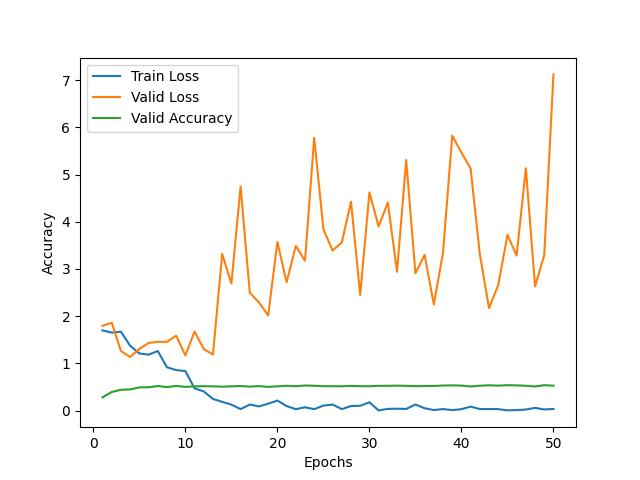
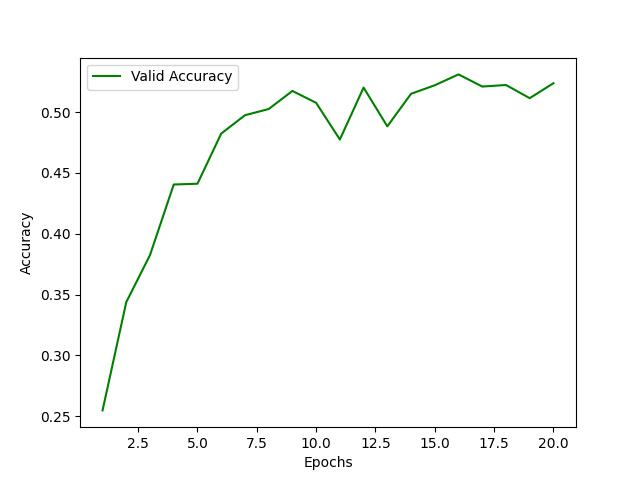
2307142227 commit

diff --git a/Treatment.py b/Treatment.py
@@ -9,6 +9,9 @@ import os
 from models.ModelDefinition import *
 
 def getSliceAndDraw(url='./videos/sample.mp4'):
+    global arugment
+    
+    arugment=False
     # 拉取视频
     video=cv2.VideoCapture(url)
     
@@ -16,12 +19,19 @@ def getSliceAndDraw(url='./videos/sample.mp4'):
     face_path='./xmls/haarcascade_frontalface_default.xml'
     face_cas=cv2.CascadeClassifier(face_path)
     face_cas.load(face_path)
-        
-    # 设置去背景函数
-    fgbg=cv2.createBackgroundSubtractorMOG2()
     
-    # 形态学kernel
-    kernel = cv2.getStructuringElement(cv2.MORPH_RECT, (7, 7))
+    # 导入先前训练的模型
+    model=ResNet(BasicBlock, [2, 2, 2, 2])
+    model.load_state_dict(torch.load('./models/cnn_model.pth'))
+    model.eval()  # 将模型设置为评估模式
+    
+    emoji0=cv2.imread('./emoji/0-Angry.png')
+    emoji1=cv2.imread('./emoji/1-Disgust.png')
+    emoji2=cv2.imread('./emoji/2-Fear.png')
+    emoji3=cv2.imread('./emoji/3-Happy.png')
+    emoji4=cv2.imread('./emoji/4-Sad.png')
+    emoji5=cv2.imread('./emoji/5-Surprise.png')
+    emoji6=cv2.imread('./emoji/6-Neutral.png')
     
     while True:
         # 读取视频帧
@@ -44,7 +54,7 @@ def getSliceAndDraw(url='./videos/sample.mp4'):
         '''
         # 进行人脸和眼睛检测
         faceRects = face_cas.detectMultiScale(
-            cvt_img, scaleFactor=1.2, minNeighbors=4, minSize=(100, 100))
+            cvt_img, scaleFactor=1.2, minNeighbors=4, minSize=(15, 15))
         
         if len(faceRects) == 0:  # 如果获取失败
             # 只显示原始图像
@@ -61,55 +71,51 @@ def getSliceAndDraw(url='./videos/sample.mp4'):
             # 截取人脸图像用于识别表情
             face=frame[y:y+h, x:x+w]
             
-            # 人脸图像预处理
-            if not face:
-                break
-            
-            # 高斯去噪
-            blur = cv2.GaussianBlur(face, (7, 7), 5)
-            # 中值滤波
-            dst = cv2.medianBlur(blur, 5)
-            # 去背景, 去背景图像很乱
-            mask = fgbg.apply(dst)
-            # 腐蚀, 去掉图中的小方块，腐蚀后的图像干净许多, 但物体变小
-            erode = cv2.erode(mask, kernel)
-            # 膨胀, 还原使物体变大, 膨胀3次大一点
-            dilate = cv2.dilate(erode, kernel, iterations=3)
+            # # 高斯去噪
+            # blur = cv2.GaussianBlur(face, (7, 7), 5)
+            # # 中值滤波
+            # dst = cv2.medianBlur(blur, 5)
+            # # 腐蚀, 去掉图中的小方块，腐蚀后的图像干净许多, 但物体变小
+            # erode = cv2.erode(dst, kernel)
+            # # 膨胀, 还原使物体变大, 膨胀3次大一点
+            # dilate = cv2.dilate(erode, kernel, iterations=3)
             
             # 图像按照归一化 48*48的灰度图
             face=cv2.resize(face,(48,48))
-            
-            # 导入先前训练的模型
-            model=CNN()
-            model.load_state_dict(torch.load('./models/cnn_model.pth'))
-            
-            model.eval()  # 将模型设置为评估模式
+            face=Image.fromarray(face)
+            my_transform=get_transform(False)
+            face=my_transform(face)
+            face=torch.unsqueeze(face,dim=0) # 增加一维作为批次维度
             
             # 不启动梯度，即不使用该数据进行训练
             with torch.no_grad():
-                output = model(face.unsqueeze(0))  # 增加一维作为批次维度
+                output = model(face)
                 # 得到训练后的表情标签
                 predicted_label = torch.argmax(output, 1).item()
-                
+
             # 利用得到的标签将对应的emoji打回到目录中
             if predicted_label==0:
-                emoji=cv2.imread('./emoji/0-Angry.png')
+                emoji=emoji0
             elif predicted_label==1:
-                emoji=cv2.imread('./emoji/1-Disgust.png')
+                emoji=emoji1
             elif predicted_label==2:
-                emoji=cv2.imread('./emoji/2-Feart.png')
+                emoji=emoji2
             elif predicted_label==3:
-                emoji=cv2.imread('./emoji/3-Happy.png')
+                emoji=emoji3
             elif predicted_label==4:
-                emoji=cv2.imread('./emoji/4-Sad.png')
+                emoji=emoji4
             elif predicted_label==5:
-                emoji=cv2.imread('./emoji/5-Surprise.png')
+                emoji=emoji5
             elif predicted_label==6:
-                emoji=cv2.imread('./emoji/6-Neutral.png')
+                emoji=emoji6
             else:
-                emoji=cv2.imread('./emoji/6-Neutral.png')
+                emoji=emoji6
+                
+            confidence = torch.max(torch.softmax(output, dim=1)).item()
+            if confidence<0.70:
+                emoji=emoji6
             
-            if not emoji:
+            if emoji is None:
                 continue
             
             # 让emoji不要太大
@@ -119,15 +125,14 @@ def getSliceAndDraw(url='./videos/sample.mp4'):
             emoji_height, emoji_width, _ = emoji.shape     
             
             # 默认在人脸的左边显示
-            frame[y-emoji_height:y,x-emoji_width-20:x-20]=emoji
+            frame[y:y+emoji_height,x-100:x+emoji_width-100,:]=emoji[:,:,:]
             
             # 显示图像
             cv2.imshow('video',frame)
-            if cv2.waitKey(20) & 0xFF==27:
+            if cv2.waitKey(42) & 0xFF==27:
                 break
  
     video.release()      
-    cv2.destroyAllWindows('video')
 
 if __name__ == '__main__':
     getSliceAndDraw()

diff --git a/models/ModelDefinition.py b/models/ModelDefinition.py
@@ -24,31 +24,33 @@ from torchvision.transforms import (
     RandomErasing
 )
 
-arugment=True
 
-if arugment==True:
-    transform = transforms.Compose([
-        transforms.Resize((48,48)),
+def get_transform(arugment=True):
+    if arugment==True:
+        transform = transforms.Compose([
+            transforms.Resize((48,48)),
 
-        RandomResizedCrop((48,48)),
-        ColorJitter(),
-        RandomAffine(degrees=0, translate=(0.1, 0.1)),
-        RandomHorizontalFlip(),
-        RandomRotation(degrees=10),
-        FiveCrop(size=40),
-        Lambda(lambda crops: torch.stack([transforms.ToTensor()(crop) for crop in crops])),
-        RandomErasing(),
-        
-        transforms.ToTensor(),
-        transforms.Normalize((0.5,), (0.5,))
-    ])
-else:
-    transform = transforms.Compose([
-        transforms.Resize((48,48)),
-        Grayscale(),
-        transforms.ToTensor(),
-        transforms.Normalize((0.5,), (0.5,))
-    ])
+            Grayscale(),
+            RandomResizedCrop((48,48)),
+            ColorJitter(),
+            RandomAffine(degrees=0, translate=(0.1, 0.1)),
+            RandomHorizontalFlip(),
+            RandomRotation(degrees=10),
+            FiveCrop(size=40),
+            Lambda(lambda crops: torch.stack([transforms.ToTensor()(crop) for crop in crops])),
+            RandomErasing(),
+            
+            transforms.ToTensor(),
+            transforms.Normalize((0.5,), (0.5,))
+        ])
+    else:
+        transform = transforms.Compose([
+            transforms.Resize((48,48)),
+            Grayscale(),
+            transforms.ToTensor(),
+            transforms.Normalize((0.5,), (0.5,))
+        ])
+    return transform
 
 class CNN(nn.Module):
     def __init__(self):
@@ -181,3 +183,5 @@ class ResNet(nn.Module):
  
 def ResNet18():
     return ResNet(BasicBlock, [2, 2, 2, 2])
+
+transform=get_transform()

diff --git a/TrainModel.py b/TrainModel.py
@@ -16,12 +16,11 @@ val_path = './customDatasets/val_dataset.pt'
 
 # 设置训练参数
 batch_size = 120
-learning_rate = 0.0008
-num_epochs = 50
+learning_rate = 0.001
+num_epochs = 20
 
 def main():
     # 判断是否数据增强，定义在ModelDdefinition内
-    global arugment
 
     # # 加载训练数据集
     # train_dataset = torchvision.datasets.MNIST(root='./data', train=True, transform=transform, # transfrom定义在模型中作为转换函数
@@ -53,7 +52,6 @@ def main():
 
             # 前向传播
             outputs = model(images)
-
             loss = criterion(outputs, labels)
 
             # 反向传播和优化
@@ -98,31 +96,29 @@ def main():
     
     # 训练完成后打印图像
     # 创建 x 轴数据
+    # 创建 x 轴数据
     x = range(1, num_epochs + 1)
-    x_acc=range(1, num_epochs + 1)
 
-    # 绘制训练损失和验证损失曲线
-    plt.plot(x, train_loss, label='Train Loss')
-    plt.plot(x, valid_loss, label='Valid Loss')
-
-    # 添加图例和标签
-    plt.legend()
+    plt.plot(x, train_loss, label='Train Loss', color='blue')
+    plt.plot(x, valid_loss, label='Valid Loss', color='red')
     plt.xlabel('Epochs')
     plt.ylabel('Loss')
-
-    # 显示图形
+    plt.legend()
     plt.savefig('./images/Loss-epoches.jpg')
+    plt.close()
+    
+    # 创建 x 轴数据
+    x_acc = range(1, num_epochs + 1)
 
     # 绘制验证准确率曲线
-    plt.plot(x_acc, valid_acc, label='Valid Accuracy')
-
-    # 添加图例和标签
-    plt.legend()
+    plt.plot(x_acc, valid_acc, label='Valid Accuracy', color='green')
     plt.xlabel('Epochs')
     plt.ylabel('Accuracy')
+    plt.legend()
 
-    # 显示图形
+    # 保存图像
     plt.savefig('./images/Acc-epoches.jpg')
+    plt.close()
     
     # 验证用
     # model=CNN()
